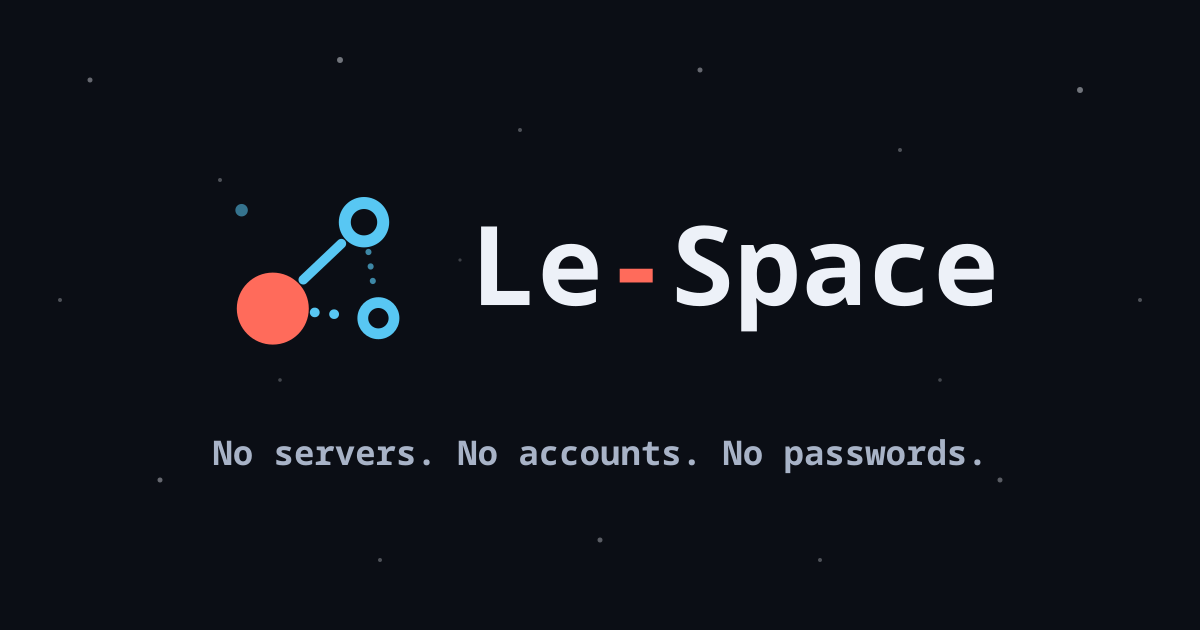
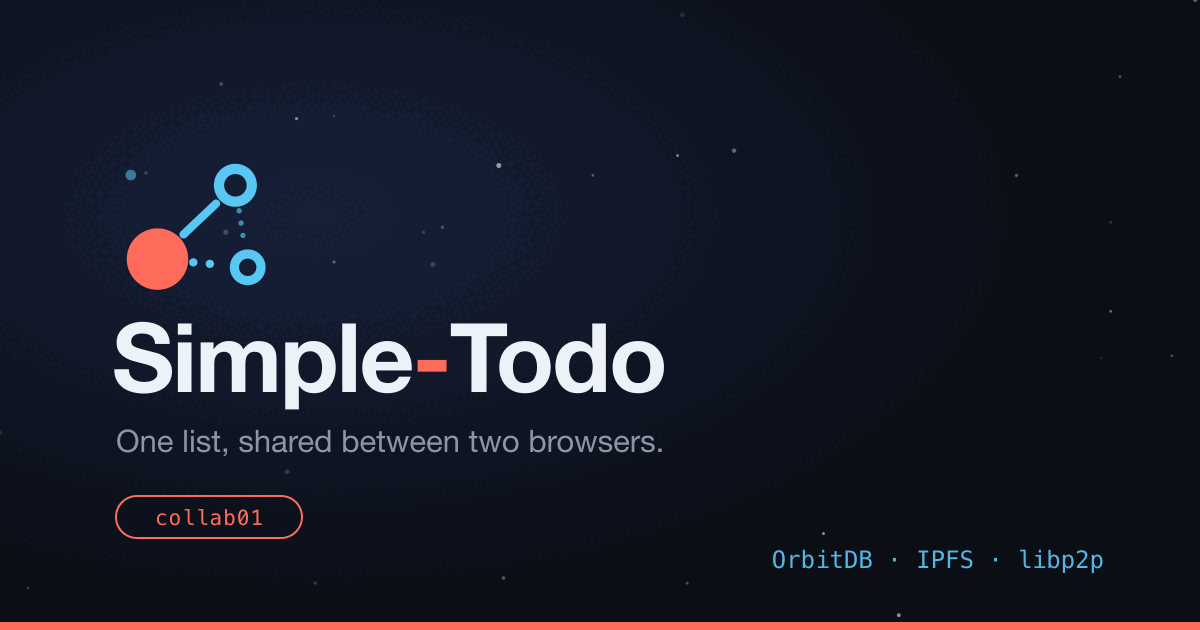
chore(collab01): give this chapter its own social card
The card announced somebody else. Every chapter pointed og:image at
simple-todo.le-space.de even though each one ships its own
static/og-image.png, and twitter:url/twitter:title named main on all
of them. qr01 and qr02 went further and claimed to *be* acl01, in
og:url and og:title both — a share of a qr01 link told the messenger
the canonical page was a different chapter.

Each chapter now names itself and serves its picture from its own
origin, so a preview no longer depends on another deployment being
up. The picture is the Le-Space mark from LeSpaceLogo.svelte with the
chapter badge and its one-line promise; scripts/make-og-cards.py
regenerates the set.

diff --git a/src/app.html b/src/app.html
@@ -19,12 +19,12 @@
 		</script>
 
 		<!-- Favicon and Icons -->
-			<link rel="icon" type="image/svg+xml" href="./favicon.svg" />
-			<link rel="icon" type="image/x-icon" href="./favicon.ico" />
-			<link rel="icon" type="image/png" sizes="16x16" href="./favicon-16x16.png" />
-			<link rel="icon" type="image/png" sizes="32x32" href="./favicon-32x32.png" />
-			<link rel="apple-touch-icon" sizes="180x180" href="./apple-touch-icon.png" />
-			<link rel="manifest" href="./manifest.json" />
+		<link rel="icon" type="image/svg+xml" href="./favicon.svg" />
+		<link rel="icon" type="image/x-icon" href="./favicon.ico" />
+		<link rel="icon" type="image/png" sizes="16x16" href="./favicon-16x16.png" />
+		<link rel="icon" type="image/png" sizes="32x32" href="./favicon-32x32.png" />
+		<link rel="apple-touch-icon" sizes="180x180" href="./apple-touch-icon.png" />
+		<link rel="manifest" href="./manifest.json" />
 		<meta name="theme-color" content="#0B0E15" />
 
 		<!-- SEO Meta Tags -->
@@ -45,11 +45,14 @@
 		<meta property="og:title" content="Simple-Todo — collab01 tutorial chapter" />
 		<meta
 			property="og:description"
-			content="A local-first peer-to-peer todo list. No servers, no accounts, no passwords — data you own. OrbitDB · IPFS · libp2p."
+			content="One list, shared between two browsers. A local-first peer-to-peer todo list. No servers, no accounts, no passwords — data you own. OrbitDB · IPFS · libp2p."
 		/>
-		<meta property="og:image" content="https://simple-todo.le-space.de/og-image.png" />
+		<meta property="og:image" content="https://collab01.le-space.de/og-image.png" />
 		<meta property="og:image:type" content="image/png" />
-		<meta property="og:image:alt" content="Simple-Todo — Le-Space local-first peer-to-peer stack" />
+		<meta
+			property="og:image:alt"
+			content="Simple-Todo — a local-first peer-to-peer todo list, on the Le-Space stack"
+		/>
 		<meta property="og:image:width" content="1200" />
 		<meta property="og:image:height" content="630" />
 		<meta property="og:site_name" content="Simple-Todo" />
@@ -57,14 +60,17 @@
 
 		<!-- Twitter -->
 		<meta property="twitter:card" content="summary_large_image" />
-		<meta property="twitter:url" content="https://simple-todo.le-space.de/" />
-		<meta property="twitter:title" content="Simple-Todo — A Local-First Peer-to-Peer TODO" />
+		<meta property="twitter:url" content="https://collab01.le-space.de/" />
+		<meta property="twitter:title" content="Simple-Todo — collab01 tutorial chapter" />
 		<meta
 			property="twitter:description"
-			content="A local-first peer-to-peer todo list. No servers, no accounts, no passwords — data you own. OrbitDB · IPFS · libp2p."
+			content="One list, shared between two browsers. A local-first peer-to-peer todo list. No servers, no accounts, no passwords — data you own. OrbitDB · IPFS · libp2p."
 		/>
-		<meta property="twitter:image" content="https://simple-todo.le-space.de/og-image.png" />
-		<meta property="twitter:image:alt" content="Simple-Todo — Le-Space local-first peer-to-peer stack" />
+		<meta property="twitter:image" content="https://collab01.le-space.de/og-image.png" />
+		<meta
+			property="twitter:image:alt"
+			content="Simple-Todo — a local-first peer-to-peer todo list, on the Le-Space stack"
+		/>
 
 		<!-- Additional Meta Tags -->
 		<meta name="application-name" content="Simple-Todo" />
@@ -73,7 +79,7 @@
 		<meta name="apple-mobile-web-app-status-bar-style" content="black-translucent" />
 		<meta name="apple-mobile-web-app-title" content="Simple-Todo" />
 		<meta name="msapplication-TileColor" content="#0B0E15" />
-			<meta name="msapplication-config" content="./browserconfig.xml" />
+		<meta name="msapplication-config" content="./browserconfig.xml" />
 
 		<!-- Tutorial chapter: this deployment shows an intentionally older state of
 		     the app, so it must not compete with the live product in search results.

diff --git a/scripts/make-og-cards.py b/scripts/make-og-cards.py
@@ -1,0 +1,121 @@
+#!/usr/bin/env python3
+"""Generate the Simple-Todo social card, one per tutorial chapter.
+
+The mark is the Le-Space logo ("Der erste Knoten") lifted verbatim from
+src/lib/LeSpaceLogo.svelte, with the CSS variables resolved to their brand
+values because a social card is rendered by a crawler that has no stylesheet.
+"""
+
+import hashlib
+import subprocess
+import sys
+from pathlib import Path
+
+OUT = Path(sys.argv[1] if len(sys.argv) > 1 else '.')
+
+BG = '#0B0E15'
+CORAL = '#FF6B5B'
+CYAN = '#58C7F3'
+INK = '#EDF1F8'
+MUTED = '#8B95A7'
+
+W, H = 1200, 630
+
+# name -> (badge, one-line promise)
+CHAPTERS = {
+    'main': (None, 'No servers. No accounts. No passwords.'),
+    'collab01': ('collab01', 'One list, shared between two browsers.'),
+    'passkey01': ('passkey01', 'A passkey signs everything you write.'),
+    'acl01': ('acl01', 'You decide who is allowed to write.'),
+    'qr01': ('qr01', 'Hand a list over with a code. No internet.'),
+    'qr02': ('qr02', 'Hand a list over with a code. No internet.'),
+}
+
+
+def stars(seed: str) -> str:
+    """Deterministic star field — same input, same picture, so a rebuild does
+    not produce a gratuitously different file for git to store."""
+    h = hashlib.sha256(seed.encode()).digest()
+    out = []
+    for i in range(46):
+        x = h[(i * 3) % len(h)] / 255 * W
+        y = h[(i * 3 + 1) % len(h)] / 255 * H
+        r = 1.0 + (h[(i * 3 + 2) % len(h)] / 255) * 1.6
+        o = 0.10 + (h[(i * 5 + 7) % len(h)] / 255) * 0.28
+        out.append(f'<circle cx="{x:.1f}" cy="{y:.1f}" r="{r:.2f}" fill="{INK}" opacity="{o:.2f}"/>')
+    return '\n    '.join(out)
+
+
+def mark(tx: float, ty: float, scale: float) -> str:
+    """LeSpaceLogo.svelte, viewBox 0 0 96 96, variables resolved."""
+    return f'''<g transform="translate({tx},{ty}) scale({scale})">
+      <line x1="42.7" y1="49.96" x2="58.56" y2="34.94" stroke="{CYAN}" stroke-width="4" stroke-linecap="round"/>
+      <line x1="47.43" y1="63.58" x2="62.8" y2="64.98" stroke="{CYAN}" stroke-width="4" stroke-linecap="round" stroke-dasharray="0.1 8"/>
+      <line x1="69.85" y1="38.36" x2="72.41" y2="55.37" stroke="{CYAN}" stroke-width="2.5" stroke-linecap="round" stroke-dasharray="0.1 6" opacity="0.65"/>
+      <circle cx="30" cy="62" r="15" fill="{CORAL}"/>
+      <circle cx="68" cy="26" r="8" fill="none" stroke="{CYAN}" stroke-width="5"/>
+      <circle cx="74" cy="66" r="6.5" fill="none" stroke="{CYAN}" stroke-width="4.5"/>
+      <circle cx="17" cy="21" r="2.6" fill="{CYAN}" opacity="0.55"/>
+    </g>'''
+
+
+def badge(label: str, x: float, y: float) -> str:
+    if not label:
+        return ''
+    w = 34 + len(label) * 19
+    return f'''<g>
+      <rect x="{x}" y="{y}" rx="21" ry="21" width="{w}" height="42" fill="none" stroke="{CORAL}" stroke-width="2"/>
+      <text x="{x + w / 2}" y="{y + 29}" text-anchor="middle" font-family="ui-monospace, Menlo, monospace"
+            font-size="21" fill="{CORAL}" letter-spacing="1">{label}</text>
+    </g>'''
+
+
+def card(name: str) -> str:
+    label, promise = CHAPTERS[name]
+    return f'''<svg xmlns="http://www.w3.org/2000/svg" width="{W}" height="{H}" viewBox="0 0 {W} {H}">
+  <defs>
+    <radialGradient id="glow" cx="26%" cy="34%" r="62%">
+      <stop offset="0%" stop-color="#16203A"/>
+      <stop offset="100%" stop-color="{BG}"/>
+    </radialGradient>
+  </defs>
+  <rect width="{W}" height="{H}" fill="{BG}"/>
+  <rect width="{W}" height="{H}" fill="url(#glow)"/>
+  <g>
+    {stars(name)}
+  </g>
+
+  {mark(96, 132, 2.05)}
+
+  <text x="112" y="392" font-family="Helvetica Neue, Helvetica, Arial, sans-serif"
+        font-size="96" font-weight="700" fill="{INK}" letter-spacing="-2">Simple<tspan fill="{CORAL}">-</tspan>Todo</text>
+
+  <text x="116" y="452" font-family="Helvetica Neue, Helvetica, Arial, sans-serif"
+        font-size="31" fill="{MUTED}">{promise}</text>
+
+  {badge(label, 116, 496)}
+
+  <text x="{W - 96}" y="{H - 62}" text-anchor="end" font-family="ui-monospace, Menlo, monospace"
+        font-size="24" fill="{CYAN}" opacity="0.92">OrbitDB · IPFS · libp2p</text>
+
+  <rect x="0" y="{H - 8}" width="{W}" height="8" fill="{CORAL}"/>
+</svg>
+'''
+
+
+def main() -> None:
+    OUT.mkdir(parents=True, exist_ok=True)
+    for name in CHAPTERS:
+        svg_path = OUT / f'og-{name}.svg'
+        png_path = OUT / f'og-{name}.png'
+        svg_path.write_text(card(name))
+        subprocess.run(
+            ['inkscape', str(svg_path), '--export-type=png', f'--export-filename={png_path}',
+             f'--export-width={W}', f'--export-height={H}'],
+            check=True, capture_output=True,
+        )
+        print(f'  {name:<10} {png_path.name}  {png_path.stat().st_size // 1024} KB')
+
+
+if __name__ == '__main__':
+    main()
